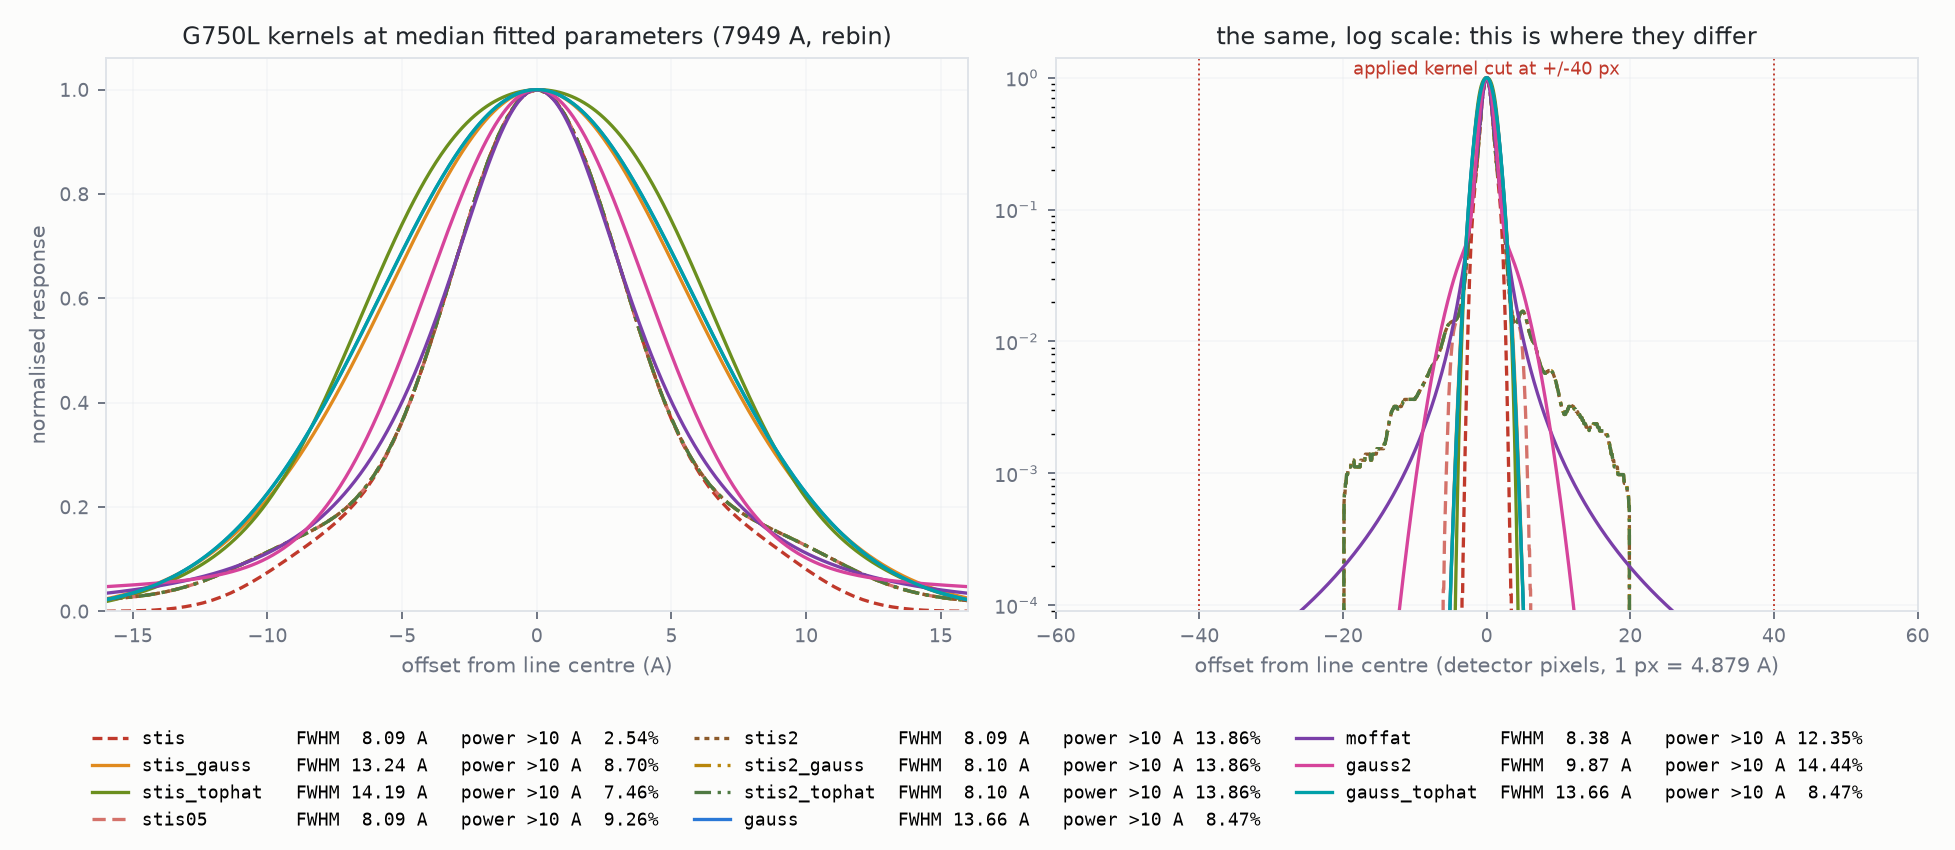
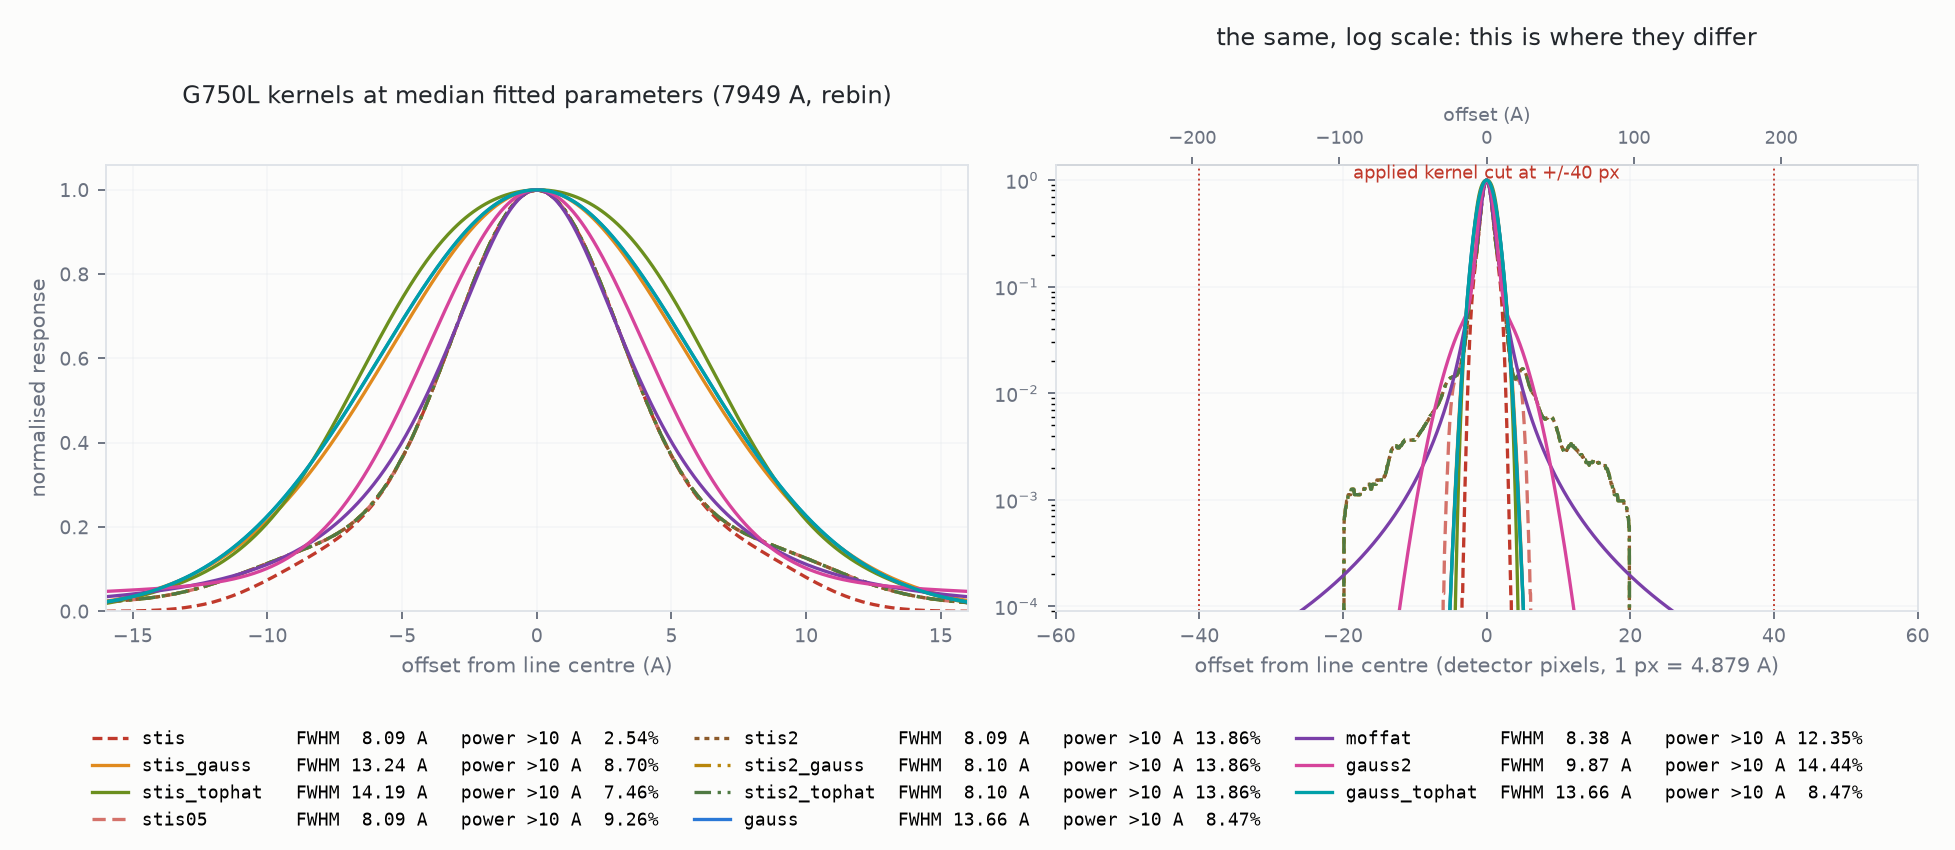
Put both unit scales on the kernel log panel
The panel's x axis changed from Angstroms to detector pixels in the previous
commit so that the +/-40 px truncation line would be readable, and that made
the tabulated profiles look like they had shrunk: stis2 stops at +/-20.09 px,
which is the same +/-55 A it always stopped at, because the STIS tables
themselves end there. Verified the built kernel is identical on the old and new
grids -- last nonzero at +/-20.09 px, edge value 2.48e-4 either way.

A secondary Angstrom axis on top now makes the two readings of the same cutoff
visible at once.

The Moffat really did lose its outer tail from the panel, but that is the
requested 9e-5 y floor rather than anything in the kernel: it crosses 9e-5 at
about +/-19 px, which is the point the floor was chosen to show.

diff --git a/explore/ngsl_lsf.py b/explore/ngsl_lsf.py
@@ -980,7 +980,7 @@ def plot_kernels(rows, grating='G430L', half_px=60.0):
     ax[0].set_ylabel('normalised response', fontsize=9, color=MUTED)
     ax[0].set_xlabel('offset from line centre (A)', fontsize=9, color=MUTED)
     ax[0].set_title(f'{grating} kernels at median fitted parameters '
-                    f'({lam:.0f} A, rebin)', fontsize=10, color=INK)
+                    f'({lam:.0f} A, rebin)', fontsize=10, color=INK, pad=26)
 
     ax[1].set_yscale('log')
     ax[1].set_ylim(9e-5, 1.4)
@@ -992,8 +992,16 @@ def plot_kernels(rows, grating='G430L', half_px=60.0):
                ha='center', va='center')
     ax[1].set_xlabel(f'offset from line centre (detector pixels, '
                      f'1 px = {disp:.3f} A)', fontsize=9, color=MUTED)
+    # Both scales on the same panel. The tabulated profiles stop at +/-20 px,
+    # which is +/-55 A on G430L and +/-98 A on G750L, and reading that cutoff
+    # off an axis in the other unit is an easy way to think a kernel changed
+    # when only the label did.
+    top = ax[1].secondary_xaxis('top', functions=(lambda v: v * disp,
+                                                  lambda v: v / disp))
+    top.set_xlabel('offset (A)', fontsize=8, color=MUTED)
+    top.tick_params(labelsize=7.5, colors=MUTED)
     ax[1].set_title('the same, log scale: this is where they differ',
-                    fontsize=10, color=INK)
+                    fontsize=10, color=INK, pad=26)
 
     # The legend goes under both panels rather than inside one: eleven
     # monospace rows do not fit beside a curve that peaks at 1.0 without either
